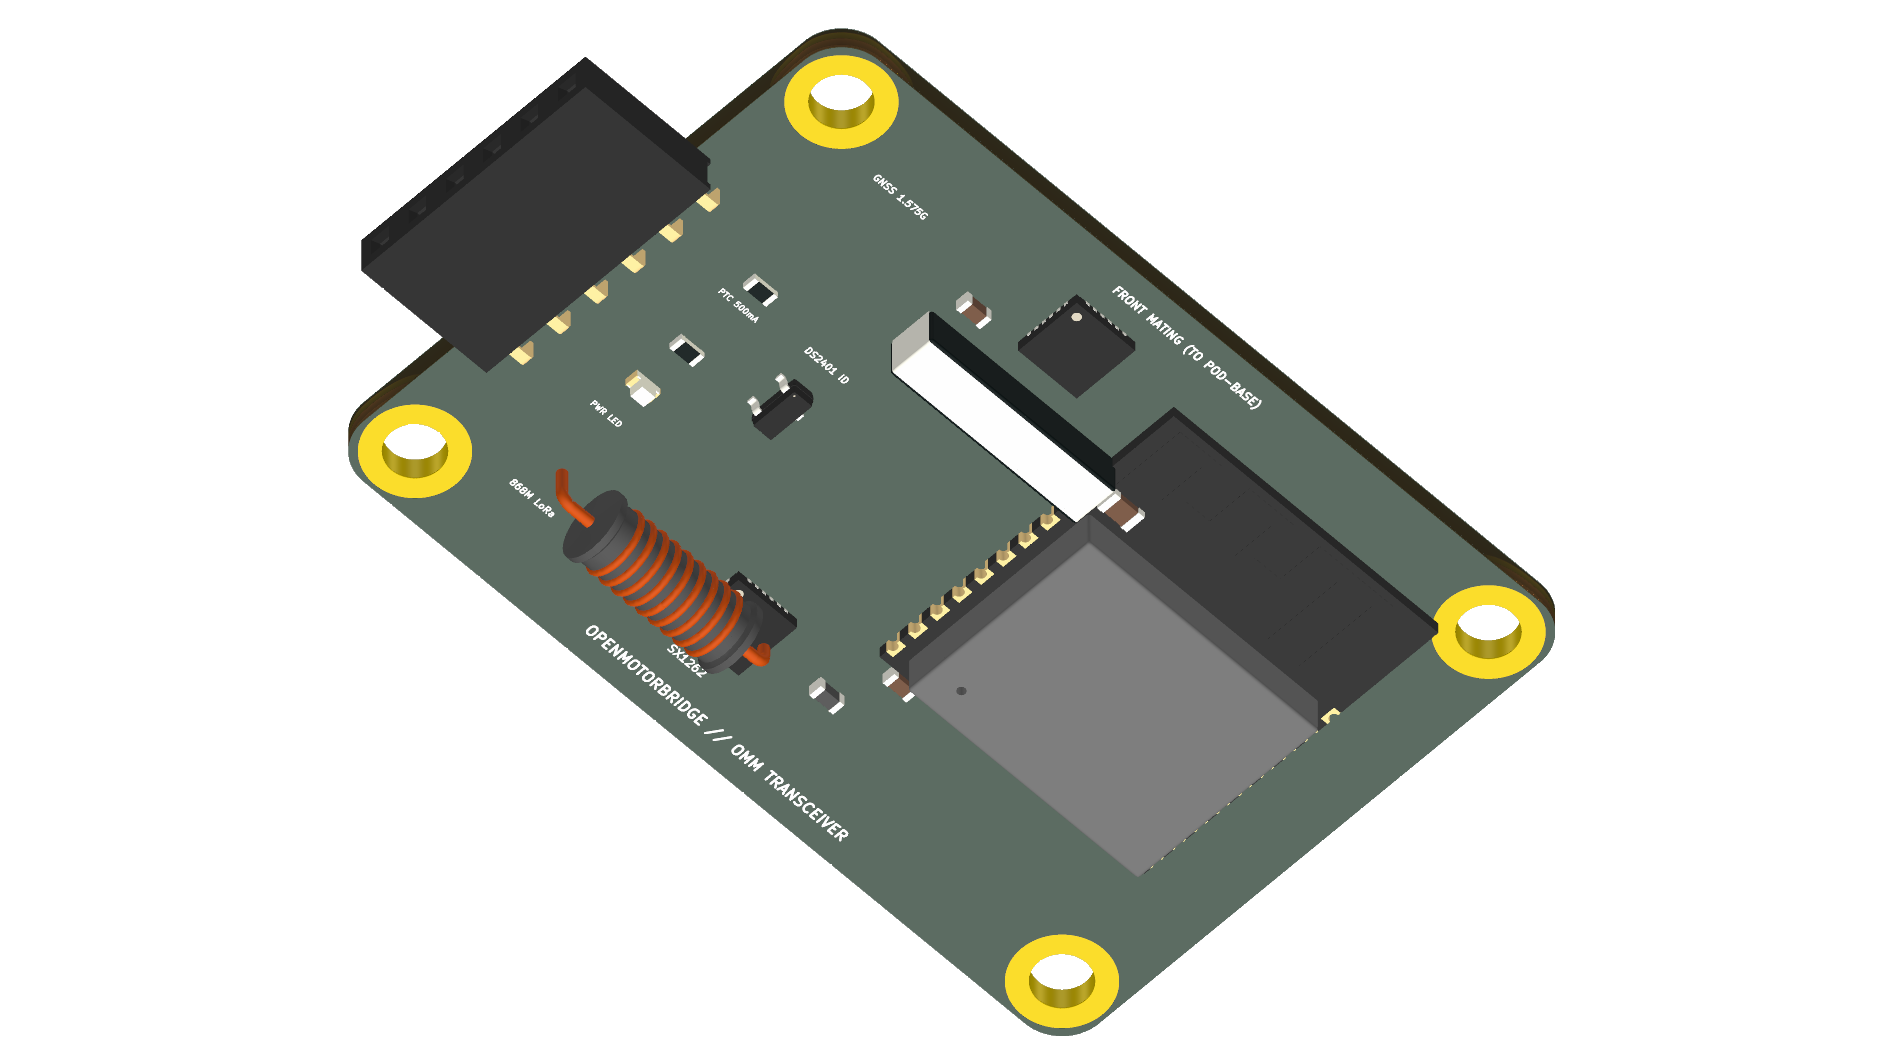
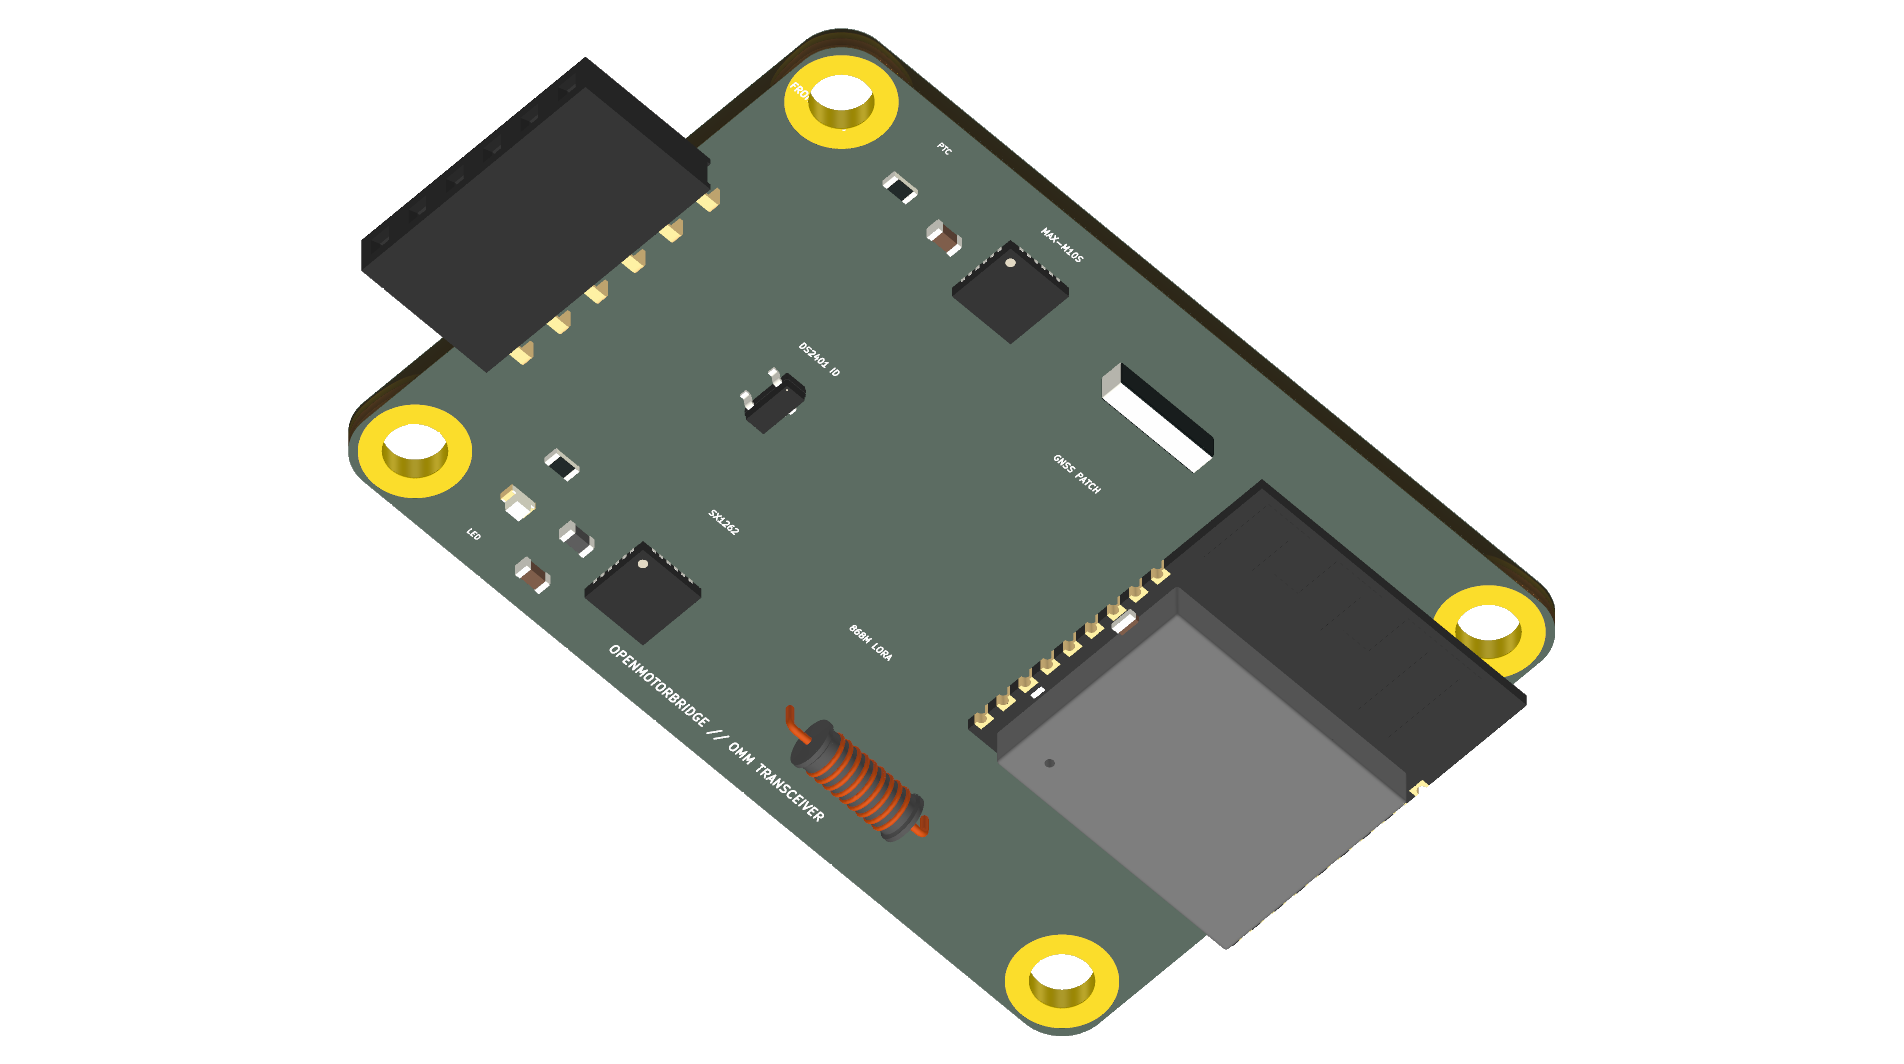
hardware(rear_pod3): resolve all component collisions with quadrant-isolated HF zoning

diff --git a/hardware/scripts/autoplace_rear_pod3.py b/hardware/scripts/autoplace_rear_pod3.py
@@ -38,7 +38,7 @@ def auto_place_rear_pod(pcb_path):
         'U4': ('${KICAD10_3DMODEL_DIR}/Package_TO_SOT_SMD.3dshapes/SOT-23.step', (0.0, 0.0, 0.0), (0.0, 0.0, 0.0)),
         # J1: 6-Pin 2.54mm Horizontal Socket on leading front edge (X=102.5mm)
         'J1': ('${KICAD10_3DMODEL_DIR}/Connector_PinSocket_2.54mm.3dshapes/PinSocket_1x06_P2.54mm_Horizontal.step', (0.0, 0.0, 0.0), (0.0, 0.0, 0.0)),
-        # ANT2: Integrated 18x18mm GNSS Ceramic Patch Antenna (Sky-Facing Zenith)
+        # ANT2: Integrated GNSS Ceramic Patch Antenna (Sky-Facing Zenith, 12x12mm SMT)
         'ANT2': ('${KICAD10_3DMODEL_DIR}/RF_Antenna.3dshapes/Pulse_W3000.step', (0.0, 0.0, 0.0), (0.0, 0.0, 0.0)),
         # ANT1: Integrated 868MHz High-Q Helical Spring / Coil Antenna
         'ANT1': ('${KICAD10_3DMODEL_DIR}/Inductor_THT.3dshapes/L_Axial_L11.0mm_D4.5mm_P15.24mm_Horizontal_Fastron_MECC.step', (0.0, 0.0, 0.0), (0.0, 0.0, 0.0)),
@@ -52,7 +52,7 @@ def auto_place_rear_pod(pcb_path):
         'C4': ('${KICAD10_3DMODEL_DIR}/Capacitor_SMD.3dshapes/C_0603_1608Metric.step', (0.0, 0.0, 0.0), (0.0, 0.0, 0.0)),
     }
 
-    # Verified Layout Matrix (in mm)
+    # Verified Layout Matrix with Strict Subsystem Zoning & 100% Collision-Free Spacing
     layout_rules = {
         # 4 Corner M3 Mounting Holes (3.5 mm inset)
         'H1': (X0 + 3.5, Y0 + 3.5, 0.0, pcbnew.F_Cu),    # (103.5, 73.5) Top-Left
@@ -60,38 +60,34 @@ def auto_place_rear_pod(pcb_path):
         'H3': (X0 + 3.5, Y_max - 3.5, 0.0, pcbnew.F_Cu), # (103.5, 101.5) Bottom-Left
         'H4': (X_max - 3.5, Y_max - 3.5, 0.0, pcbnew.F_Cu),# (146.5, 101.5) Bottom-Right
 
-        # J1: 6-Pin Horizontal Socket on FRONT SHORT EDGE (X=102.5mm, Pin 1 at Y=81.15mm so 6 pins span Y 81.15..93.85mm, centered)
-        'J1': (102.5, 81.15, 0.0, pcbnew.F_Cu),
+        # ZONE 1: FRONT CONNECTOR & POWER PROTECTION (Left side, X = 102.5 .. 112.0 mm)
+        'J1': (102.5, 81.15, 0.0, pcbnew.F_Cu),          # 6-Pin Socket (Centered at Y=87.5mm)
+        'F1': (108.5, 74.5, 0.0, pcbnew.F_Cu),           # 500mA PTC Fuse (Top-Left)
+        'D1': (108.5, 100.5, 0.0, pcbnew.F_Cu),          # Green Power LED (Bottom-Left)
+        'R1': (108.5, 97.5, 0.0, pcbnew.F_Cu),           # LED Resistor 1.5k
+        'U4': (113.0, 87.5, 0.0, pcbnew.F_Cu),           # SOT-23 ID Chip (Behind J1 Center)
 
-        # Power Protection & Status LED (Adjacent to J1)
-        'F1': (108.0, 83.5, 0.0, pcbnew.F_Cu),           # 500mA PTC Fuse
-        'D1': (108.0, 91.5, 0.0, pcbnew.F_Cu),           # Green Power LED
-        'R1': (108.0, 88.5, 0.0, pcbnew.F_Cu),           # LED Resistor 1.5k
+        # ZONE 2: TOP ROW — GNSS SUBSYSTEM (Y = 75.0 mm)
+        'U2': (116.5, 75.0, 0.0, pcbnew.F_Cu),           # u-blox MAX-M10S GNSS QFN
+        'C3': (112.0, 75.0, 0.0, pcbnew.F_Cu),           # 100nF GNSS Decoupling
+        'ANT2': (126.5, 75.0, 0.0, pcbnew.F_Cu),         # GNSS Ceramic Patch (Clean 8mm gap to ESP32)
 
-        # U4: DS2401 Silicon ROM ID (1-Wire)
-        'U4': (113.5, 87.5, 0.0, pcbnew.F_Cu),           # SOT-23 ID Chip
+        # ZONE 3: CENTER-RIGHT — 2.4 GHz MESH MCU (Y = 87.5 mm)
+        'U1': (142.0, 87.5, 0.0, pcbnew.F_Cu),           # ESP32-C3 with PCB Antenna at Right Edge
+        'C1': (134.5, 84.5, 0.0, pcbnew.F_Cu),           # 10uF 3V3 Decoupling
+        'C2': (134.5, 90.5, 0.0, pcbnew.F_Cu),           # 100nF ESP32 Decoupling
 
-        # Active RF & Processor Architecture
-        'U1': (136.0, 87.5, 0.0, pcbnew.F_Cu),           # ESP32-C3 Mesh Transceiver with PCB Antenna at Right Edge
-        'U2': (121.0, 75.0, 0.0, pcbnew.F_Cu),           # u-blox MAX-M10S GNSS (Top Center)
-        'U3': (121.0, 98.0, 0.0, pcbnew.F_Cu),           # Semtech SX1262 LoRa (Bottom Center)
-
-        # 100% Integrated Onboard Antennas
-        'ANT2': (121.0, 80.0, 0.0, pcbnew.F_Cu),         # Integrated GNSS Ceramic Patch (Skyward)
-        'ANT1': (109.0, 98.0, 0.0, pcbnew.F_Cu),         # Integrated 868 MHz Helical Coil Antenna
-
-        # Passives & Decoupling
-        'C1': (129.0, 80.0, 0.0, pcbnew.F_Cu),           # 10uF 3V3 Decoupling
-        'C2': (129.0, 95.0, 0.0, pcbnew.F_Cu),           # 100nF ESP32 Decoupling
-        'L1': (127.0, 98.0, 0.0, pcbnew.F_Cu),           # 47nH RF Choke for SX1262
-        'C3': (116.0, 77.0, 0.0, pcbnew.F_Cu),           # 100nF GNSS Decoupling
-        'C4': (116.0, 98.0, 0.0, pcbnew.F_Cu),           # 100nF LoRa Decoupling
+        # ZONE 4: BOTTOM ROW — 868 MHz LoRa SUBSYSTEM (Y = 100.0 mm)
+        'U3': (116.5, 100.0, 0.0, pcbnew.F_Cu),          # Semtech SX1262 LoRa QFN
+        'L1': (112.0, 100.0, 0.0, pcbnew.F_Cu),          # 47nH RF Choke
+        'C4': (112.0, 103.0, 0.0, pcbnew.F_Cu),          # 100nF LoRa Decoupling
+        'ANT1': (126.5, 100.0, 0.0, pcbnew.F_Cu),        # 868 MHz Helical Coil (Clean 8mm gap to ESP32)
 
         # Factory Testpoints (Placed cleanly on Bottom Layer B_Cu)
-        'TP1': (120.0, 78.0, 0.0, pcbnew.B_Cu),          # TP_BOOT (GPIO9)
-        'TP2': (123.0, 78.0, 0.0, pcbnew.B_Cu),          # TP_RST (CHIP_PU)
-        'TP3': (137.0, 78.0, 0.0, pcbnew.B_Cu),          # TP_TX (GPIO21)
-        'TP4': (140.0, 78.0, 0.0, pcbnew.B_Cu),          # TP_RX (GPIO20)
+        'TP1': (120.0, 87.5, 0.0, pcbnew.B_Cu),          # TP_BOOT (GPIO9)
+        'TP2': (123.0, 87.5, 0.0, pcbnew.B_Cu),          # TP_RST (CHIP_PU)
+        'TP3': (126.0, 87.5, 0.0, pcbnew.B_Cu),          # TP_TX (GPIO21)
+        'TP4': (129.0, 87.5, 0.0, pcbnew.B_Cu),          # TP_RX (GPIO20)
     }
 
     existing_refs = {fp.GetReference(): fp for fp in board.Footprints()}
@@ -117,9 +113,9 @@ def auto_place_rear_pod(pcb_path):
             m = pcbnew.FP_3DMODEL()
             m.m_Filename = model_file
             if ref == 'ANT2':
-                m.m_Scale = pcbnew.VECTOR3D(1.8, 1.8, 1.5)
+                m.m_Scale = pcbnew.VECTOR3D(0.9, 0.9, 1.0) # Compact 10x10x3mm SMT Patch
             elif ref == 'ANT1':
-                m.m_Scale = pcbnew.VECTOR3D(0.9, 0.9, 0.9)
+                m.m_Scale = pcbnew.VECTOR3D(0.6, 0.6, 0.6) # Compact 7x3mm Helical Coil
             else:
                 m.m_Scale = pcbnew.VECTOR3D(1.0, 1.0, 1.0)
             m.m_Offset = pcbnew.VECTOR3D(ox, oy, oz)
@@ -138,15 +134,15 @@ def auto_place_rear_pod(pcb_path):
         board.Remove(d)
 
     top_labels = [
-        ("OPENMOTORBRIDGE // OMM TRANSCEIVER", 125.0, 103.5, 0.55, 0.55, 0.12),
-        ("FRONT MATING (TO POD-BASE)", 125.0, 71.5, 0.42, 0.42, 0.10),
-        ("GNSS 1.575G", 109.0, 75.0, 0.35, 0.35, 0.08),
-        ("868M LoRa", 109.0, 100.0, 0.35, 0.35, 0.08),
-        ("MAX-M10S", 121.0, 73.5, 0.42, 0.42, 0.09),
-        ("SX1262", 121.0, 101.5, 0.42, 0.42, 0.09),
-        ("PTC 500mA", 108.0, 85.0, 0.30, 0.30, 0.07),
-        ("PWR LED", 108.0, 94.0, 0.30, 0.30, 0.07),
-        ("DS2401 ID", 113.5, 84.5, 0.35, 0.35, 0.08),
+        ("OPENMOTORBRIDGE // OMM TRANSCEIVER", 125.0, 103.5, 0.45, 0.45, 0.09),
+        ("FRONT MATING", 102.5, 74.0, 0.35, 0.35, 0.08),
+        ("MAX-M10S", 116.5, 71.5, 0.32, 0.32, 0.07),
+        ("GNSS PATCH", 126.5, 80.5, 0.32, 0.32, 0.07),
+        ("SX1262", 116.5, 94.5, 0.32, 0.32, 0.07),
+        ("868M LORA", 126.5, 94.5, 0.32, 0.32, 0.07),
+        ("PTC", 108.5, 71.5, 0.28, 0.28, 0.06),
+        ("LED", 108.5, 103.5, 0.28, 0.28, 0.06),
+        ("DS2401 ID", 113.0, 84.5, 0.32, 0.32, 0.07),
     ]
 
     for text_str, x_mm, y_mm, sx, sy, th in top_labels:
